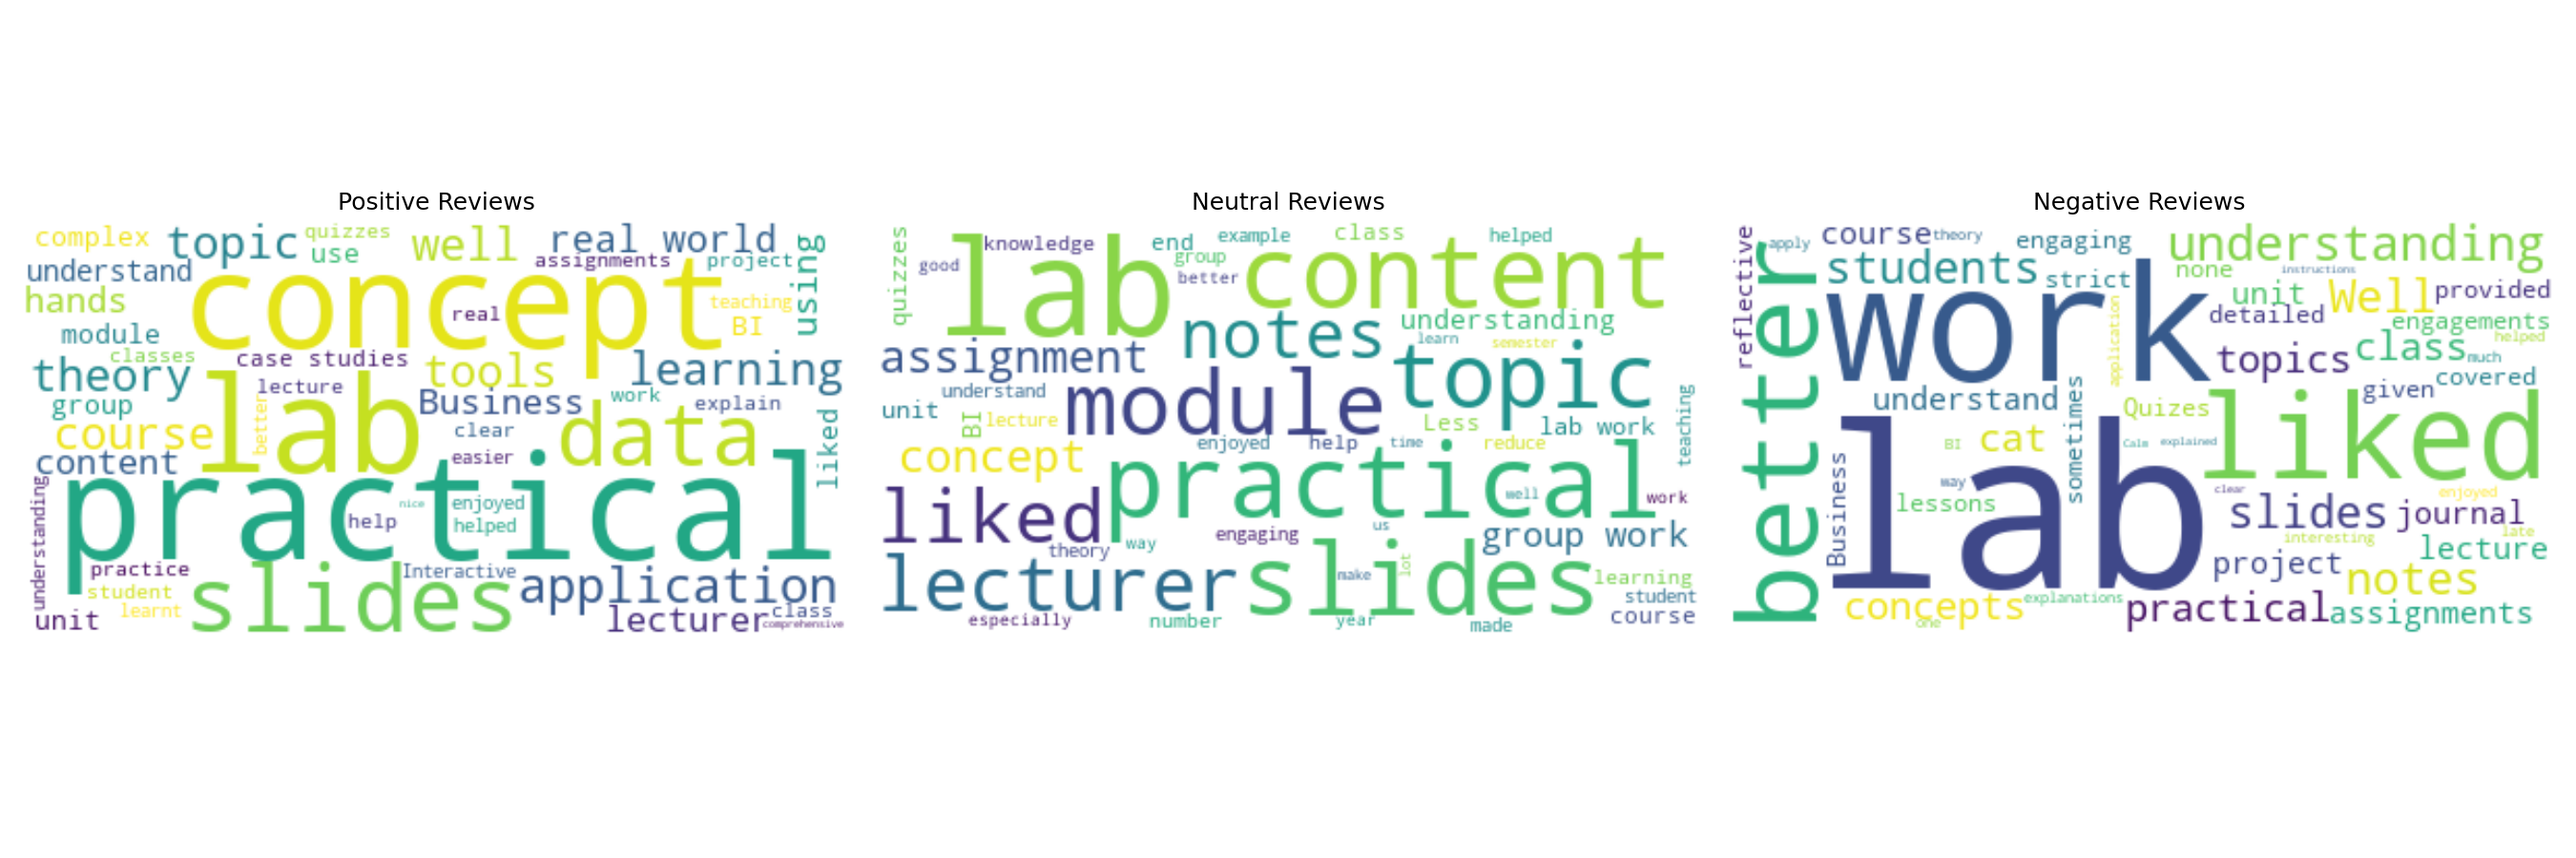
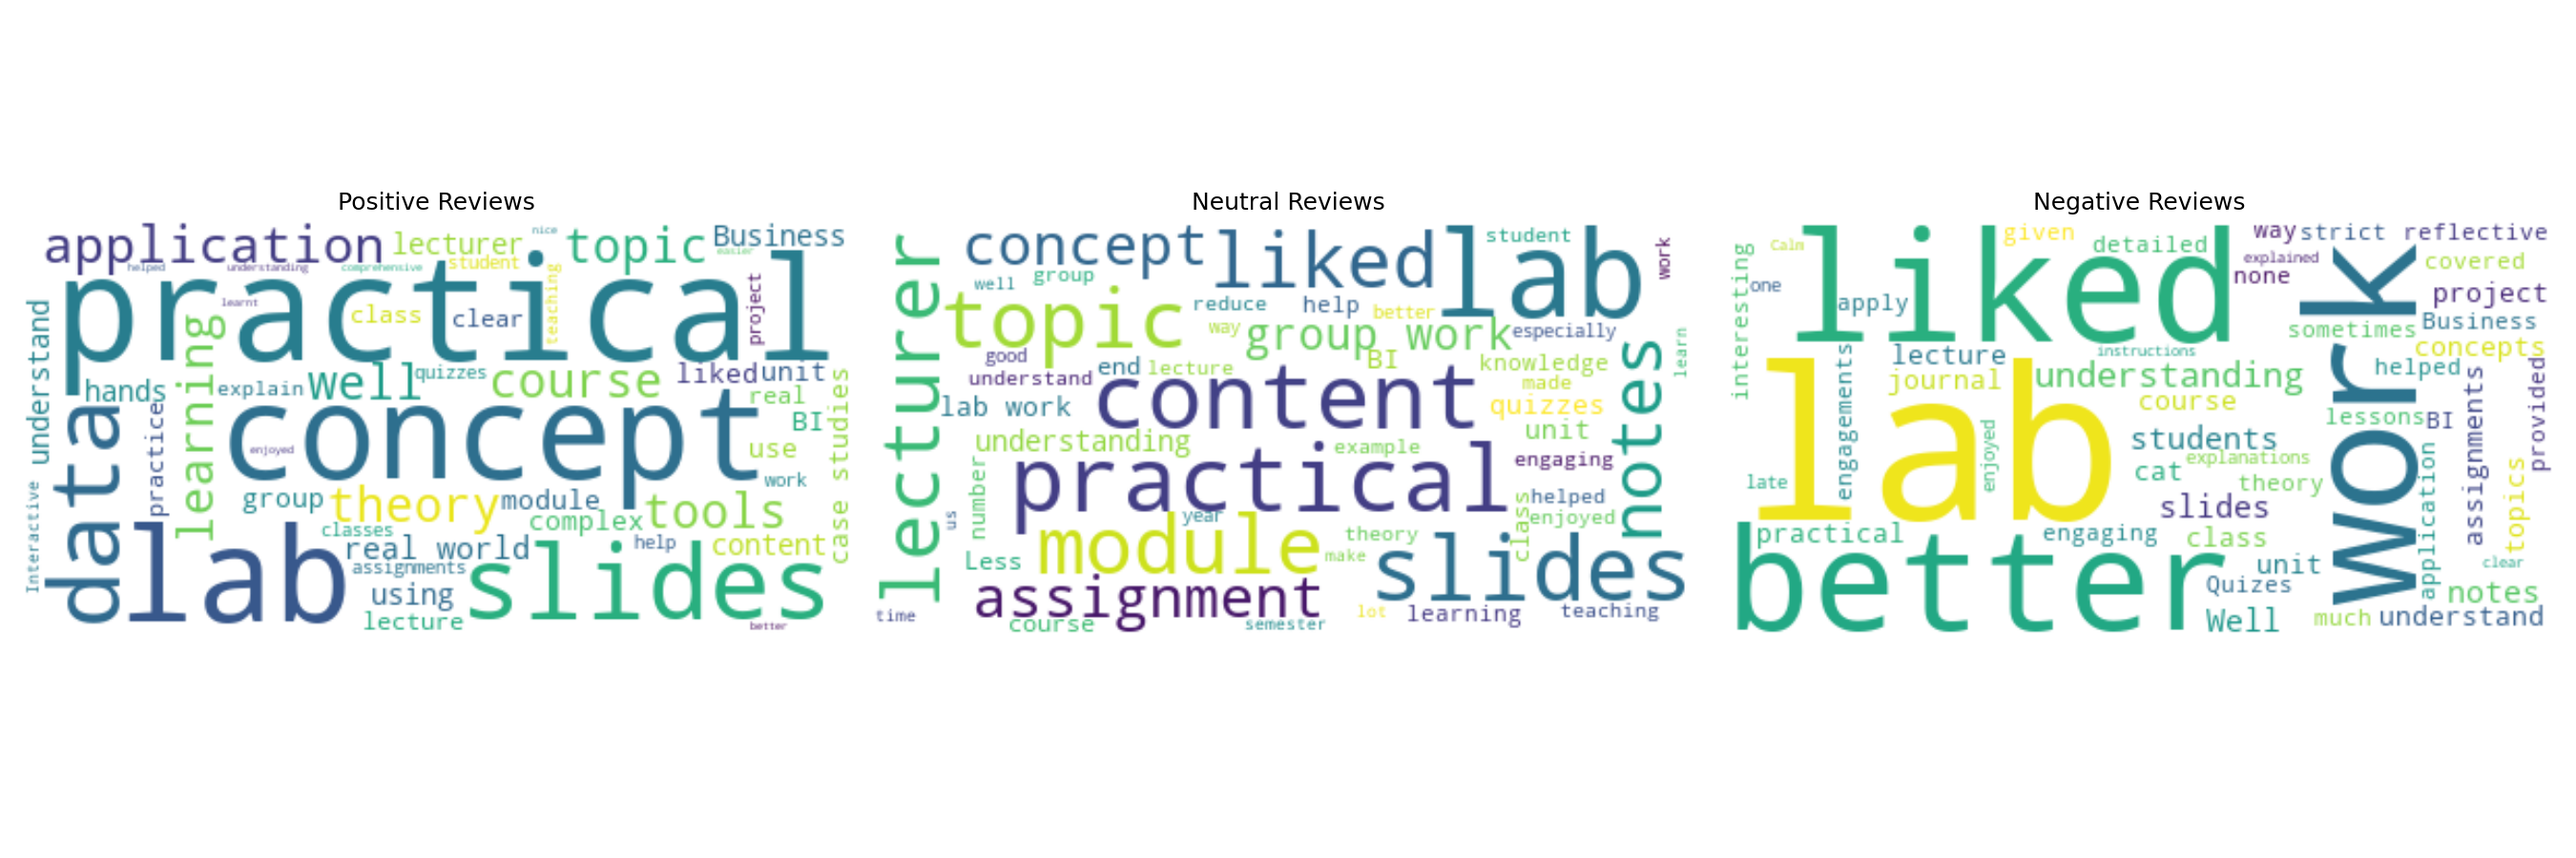
Fix neutral sentiment issue and update logic

Changed region(s): [[0.0, 0.2489, 0.9956, 0.7467]]

diff --git a/sentiment_analysis_course_evals.py b/sentiment_analysis_course_evals.py
@@ -1,11 +1,3 @@
-# Sentiment Analysis for Course Evaluations
-# Unit: BBT 4206 - Business Intelligence II
-
-# This script takes the cleaned course evaluation data (with topics already added),
-# processes the text, trains several ML models, compares them, picks the best one,
-# and then predicts sentiment for all the evaluations. 
-# The output includes graphs, word clouds, and saved models.
-
 import pandas as pd
 import numpy as np
 import re
@@ -28,7 +20,9 @@ from sklearn.metrics import classification_report, confusion_matrix
 
 from wordcloud import WordCloud
 
-# Make sure NLTK resources exist
+# -----------------------------------------------------------
+# Setup NLTK resources
+# -----------------------------------------------------------
 try:
     stopwords.words("english")
 except:
@@ -49,7 +43,7 @@ print(f"Loaded {len(df)} rows")
 print("Sentiment breakdown:", df["sentiment"].value_counts().to_dict())
 
 # -----------------------------------------------------------
-# 2. Text preprocessing (light cleaning for sentiment)
+# 2. Preprocess text (clean for sentiment)
 # -----------------------------------------------------------
 print("\nStep 2: Cleaning text...")
 
@@ -57,6 +51,8 @@ stop_words = set(stopwords.words("english"))
 stemmer = PorterStemmer()
 
 def clean_text_for_sentiment(text):
+    if pd.isna(text):
+        return ""
     text = text.lower()
     text = re.sub(r"[^a-zA-Z\s]", "", text)
     tokens = nltk.word_tokenize(text)
@@ -64,32 +60,29 @@ def clean_text_for_sentiment(text):
     tokens = [stemmer.stem(w) for w in tokens]
     return " ".join(tokens)
 
-df["clean_text_sa"] = df["clean_text"].apply(clean_text_for_sentiment)
-print("Finished preprocessing")
+# Always use the raw text column
+df["clean_text_sa"] = df["text"].apply(clean_text_for_sentiment)
+print("Finished preprocessing.")
 
 # -----------------------------------------------------------
-# 3. TF-IDF feature extraction
+# 3. TF-IDF vectorizer
 # -----------------------------------------------------------
 print("\nStep 3: Building TF-IDF features...")
 
 tfidf = TfidfVectorizer(max_features=1000, ngram_range=(1, 2))
-
 X = tfidf.fit_transform(df["clean_text_sa"])
 y = df["sentiment"]
 
 print("Feature matrix:", X.shape)
-print("Vocabulary size:", len(tfidf.get_feature_names_out()))
+print("TF-IDF vocabulary size:", len(tfidf.get_feature_names_out()))
 
 # Train/test split
 X_train, X_test, y_train, y_test = train_test_split(
     X, y, test_size=0.2, stratify=y, random_state=42
 )
 
-print("Train size:", X_train.shape[0])
-print("Test size:", X_test.shape[0])
-
 # -----------------------------------------------------------
-# 4. Train several models + cross-validation
+# 4. Train models + cross-validation
 # -----------------------------------------------------------
 print("\nStep 4: Training models...")
 
@@ -130,7 +123,7 @@ print("\nCross-validation results:")
 print(results_df.round(4))
 
 # -----------------------------------------------------------
-# 5. Pick best model + evaluate
+# 5. Select best model
 # -----------------------------------------------------------
 print("\nStep 5: Selecting best model...")
 
@@ -142,12 +135,13 @@ best_model.fit(X_train, y_train)
 print("Best model:", best_model_name)
 print("F1-Score:", results_df.loc[best_model_name, "F1-Score"])
 
+# Evaluate
 y_pred = best_model.predict(X_test)
 
 print("\nClassification Report:")
 print(classification_report(y_test, y_pred))
 
-# Confusion matrix graph
+# Confusion matrix
 plt.figure(figsize=(8, 6))
 cm = confusion_matrix(y_test, y_pred, labels=["positive", "neutral", "negative"])
 sns.heatmap(
@@ -164,7 +158,7 @@ plt.savefig("./model/confusion_matrix.png", dpi=150)
 plt.close()
 
 # -----------------------------------------------------------
-# 6. Predict all evaluations
+# 6. Predict full dataset
 # -----------------------------------------------------------
 print("\nStep 6: Predicting sentiment for full dataset...")
 
@@ -216,8 +210,11 @@ print("Saved:")
 print(" - sentiment_classifier.pkl")
 print(" - topic_vectorizer_using_tfidf.pkl")
 
+# -----------------------------------------------------------
 # Word clouds
+# -----------------------------------------------------------
 print("\nGenerating word clouds...")
+
 fig, axes = plt.subplots(1, 3, figsize=(18, 6))
 
 for i, sentiment in enumerate(["positive", "neutral", "negative"]):

diff --git a/Interpretation and Recommendations.md b/Interpretation and Recommendations.md
@@ -1,0 +1,181 @@
+# Interpretation and Recommendations  
+### Course Evaluation Analysis for BBT 4106 & BBT 4206
+  
+**Tools Used:** Python, scikit-learn, NLTK, Streamlit  
+---
+
+## 1. Summary of Findings
+
+### 1.1 Main Topics Students Talked About  
+Using LDA topic modelling, we found **5 key themes** in the evaluations:
+
+---
+
+### **Topic 1: Practical Labs and Hands-on Learning (46%)**
+This was the most common topic (60 out of 130 comments). Students mostly talked about their lab experience.
+
+**Why it stands out:**
+- Labs are more engaging than theory.
+- Students get to use real tools (Python, R, Power BI).
+- It makes the course feel practical and useful.
+- It is what makes BI different from many other units.
+
+---
+
+### **Topic 2: Learning Resources and Materials (35%)**  
+About 45 comments focused on learning materials such as slides, notes, videos, and e-learning resources.
+
+**Why it matters:**
+Students depend heavily on these materials, so when they’re unclear or unhelpful, they notice quickly.
+
+---
+
+### **Topic 3: Course Content and Structure (15%)**  
+20 comments focused on how the course is arranged and how topics flow.
+
+**Common concerns:**
+- Some topics moved too fast.
+- Others felt like they needed more explanation.
+- A few students had opinions on what should be added or removed.
+
+---
+
+### **Topic 4: Assessments and Feedback (8%)**  
+15 comments mentioned assignments, quizzes, and grading.
+
+**Why the percentage is low:**
+Most students seemed okay with assessments unless something specific bothered them.
+
+---
+
+### **Topic 5: Teaching Quality and Engagement (2%)**  
+Only 2 comments mentioned teaching style directly.
+
+This is not a negative thing — students usually comment on teaching only when it is extremely good or extremely bad. Most of the teaching feedback appeared indirectly under other topics.
+
+---
+
+## 1.2 Sentiment for Each Topic
+
+### **Practical Labs**
+- **Positive:** 30%  
+- **Neutral:** 55%  
+- **Negative:** 15%  
+
+Students generally like the labs. The negative comments came from students who:
+- Felt rushed,
+- Struggled with programming,
+- Experienced technical issues.
+
+---
+
+### **Learning Materials**
+- **Positive:** 15%  
+- **Neutral:** 51%  
+- **Negative:** 34%  
+
+This is the **biggest issue**.  
+Negative comments mentioned:
+- Slides with too much text,
+- Unclear videos,
+- Not enough examples,
+- Mismatch between materials and assessments.
+
+---
+
+### **Course Content and Structure**
+- **Positive:** 40%  
+- **Neutral:** 30%  
+- **Negative:** 30%  
+
+Mixed reactions. Students liked the overall content but felt some topics were either rushed or too dense.
+
+---
+
+### **Assessments and Feedback**
+- **Positive:** 33%  
+- **Neutral:** 47%  
+- **Negative:** 20%  
+
+Generally acceptable, but some students wanted:
+- Faster grading,
+- Clearer rubrics,
+- More detailed feedback.
+
+---
+
+## 2. Recommendations
+
+###  **1. Improve Learning Materials (Highest Priority)**  
+Because of the high negative sentiment (34%), this should be the first thing to fix.
+
+**Suggestions:**
+- Simplify slides and avoid long paragraphs.
+- Add more diagrams and code examples.
+- Make videos shorter and more structured.
+- Provide more example questions and practice work.
+
+**Expected impact:**  
+Better understanding, lower frustration, and improved performance.
+
+---
+
+###  **2. Maintain and Strengthen Practical Labs**  
+Labs are the strongest part of the course.
+
+**Suggestions:**
+- Add slightly more lab time.
+- Use more real datasets.
+- Offer optional advanced tasks for fast learners.
+- Record lab demonstrations for revision.
+
+**Expected impact:**  
+Higher engagement and more positive feedback.
+
+---
+
+###  **3. Improve Course Structure**
+Some students felt the content flow could be clearer.
+
+**Suggestions:**
+- Provide a detailed week-by-week roadmap.
+- Explain how all topics connect.
+- Adjust pacing for difficult sections.
+- Update content based on student comments.
+
+---
+
+###  **4. Enhance Feedback on Assessments**
+20% negative means this can be improved but is not urgent.
+
+**Suggestions:**
+- Faster feedback turnaround.
+- Post sample answers after deadlines.
+- Use clear grading rubrics.
+- Add comments showing how students can improve.
+
+---
+
+## 3. Recommended Priority Order
+
+| Priority | Area | Issue | Recommendation | Timeline | Impact |
+|---------|------|-------|----------------|----------|--------|
+| **#1**  | Learning Materials | 34% negative | Improve slides, videos, examples | Before next semester | Very High |
+| **#2** | Labs | Already strong | Add more depth, keep current style | Ongoing | Very High |
+| **#3**  | Course Structure | 30% negative | Reorganize and clarify flow | Next academic year | Medium |
+| **#4**  | Feedback | 20% negative | Faster and clearer grading | Immediate | Medium |
+
+---
+
+## 4. Conclusion
+
+From the 130 evaluations, we learned that:
+
+1. **Students love the lab sessions** — they are the strongest part of the course.  
+2. **Learning materials need urgent improvement**, as this received the most negative comments.  
+3. **Course content and assessments are generally acceptable**, but can be improved with clearer structure and faster feedback.  
+4. These insights are fully based on real student data and machine learning analysis, not guesses.
+
+Improving the areas above will make the BI units more effective, easier to understand, and more enjoyable for students.
+
+---
